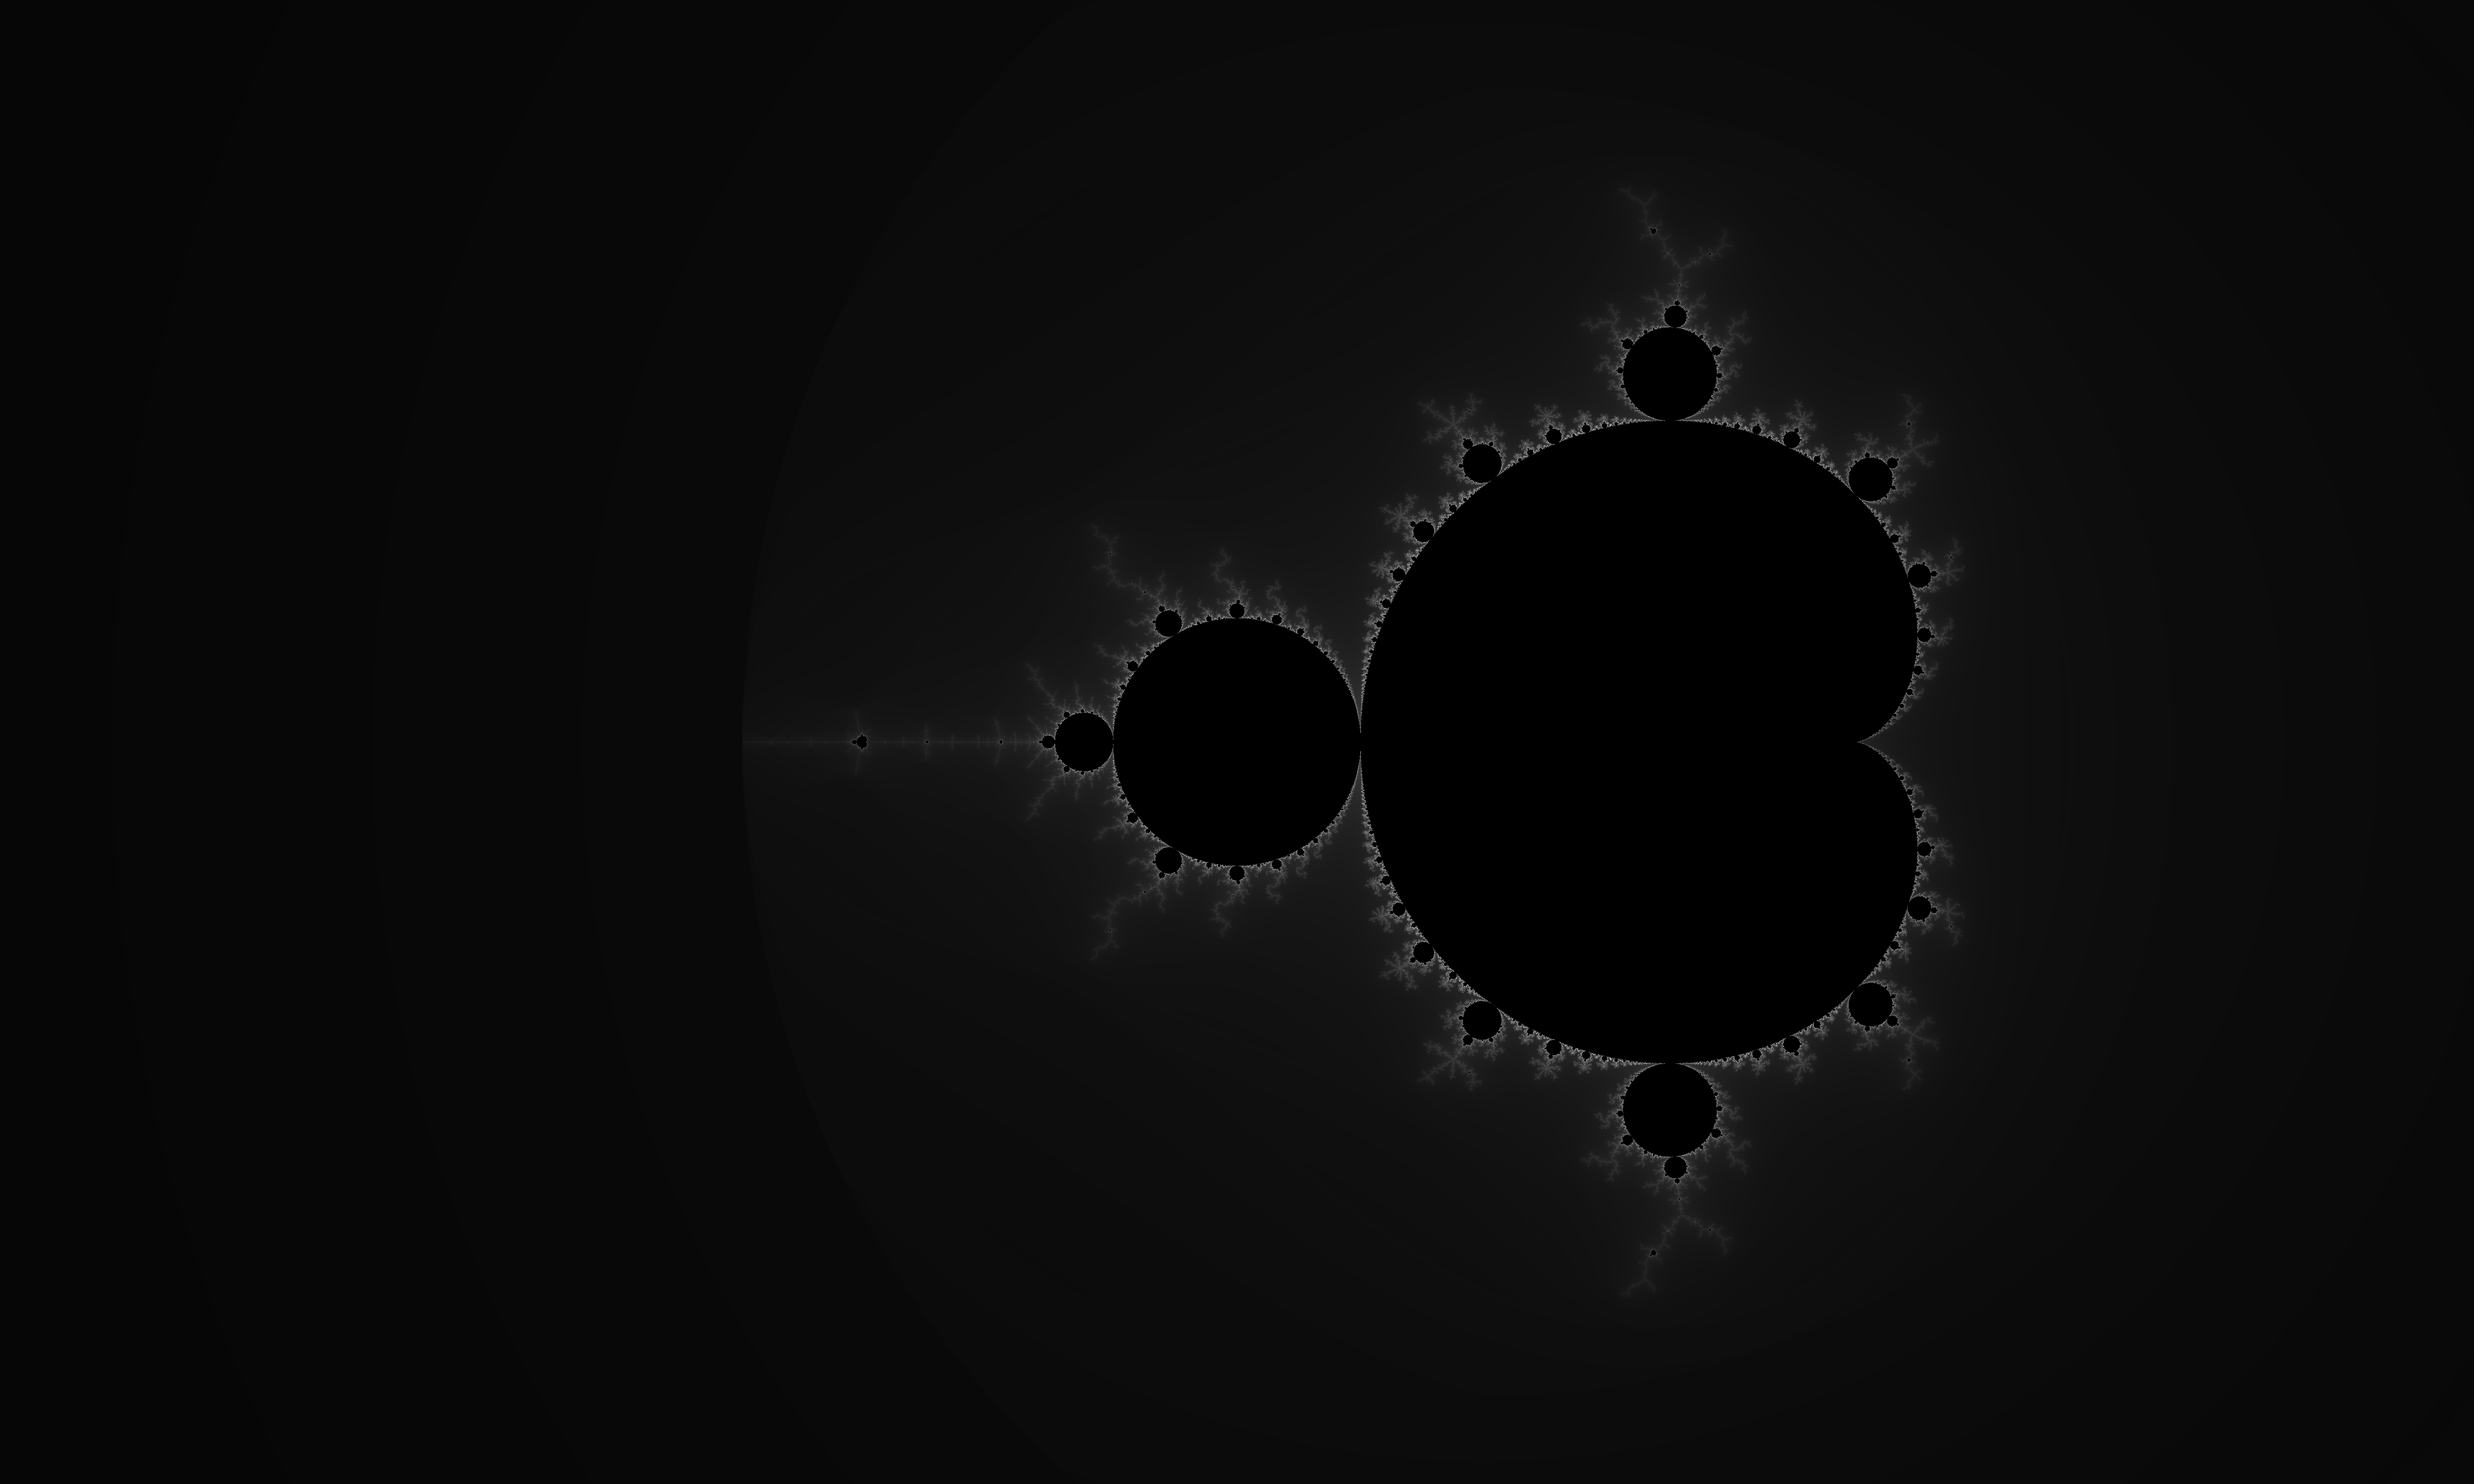
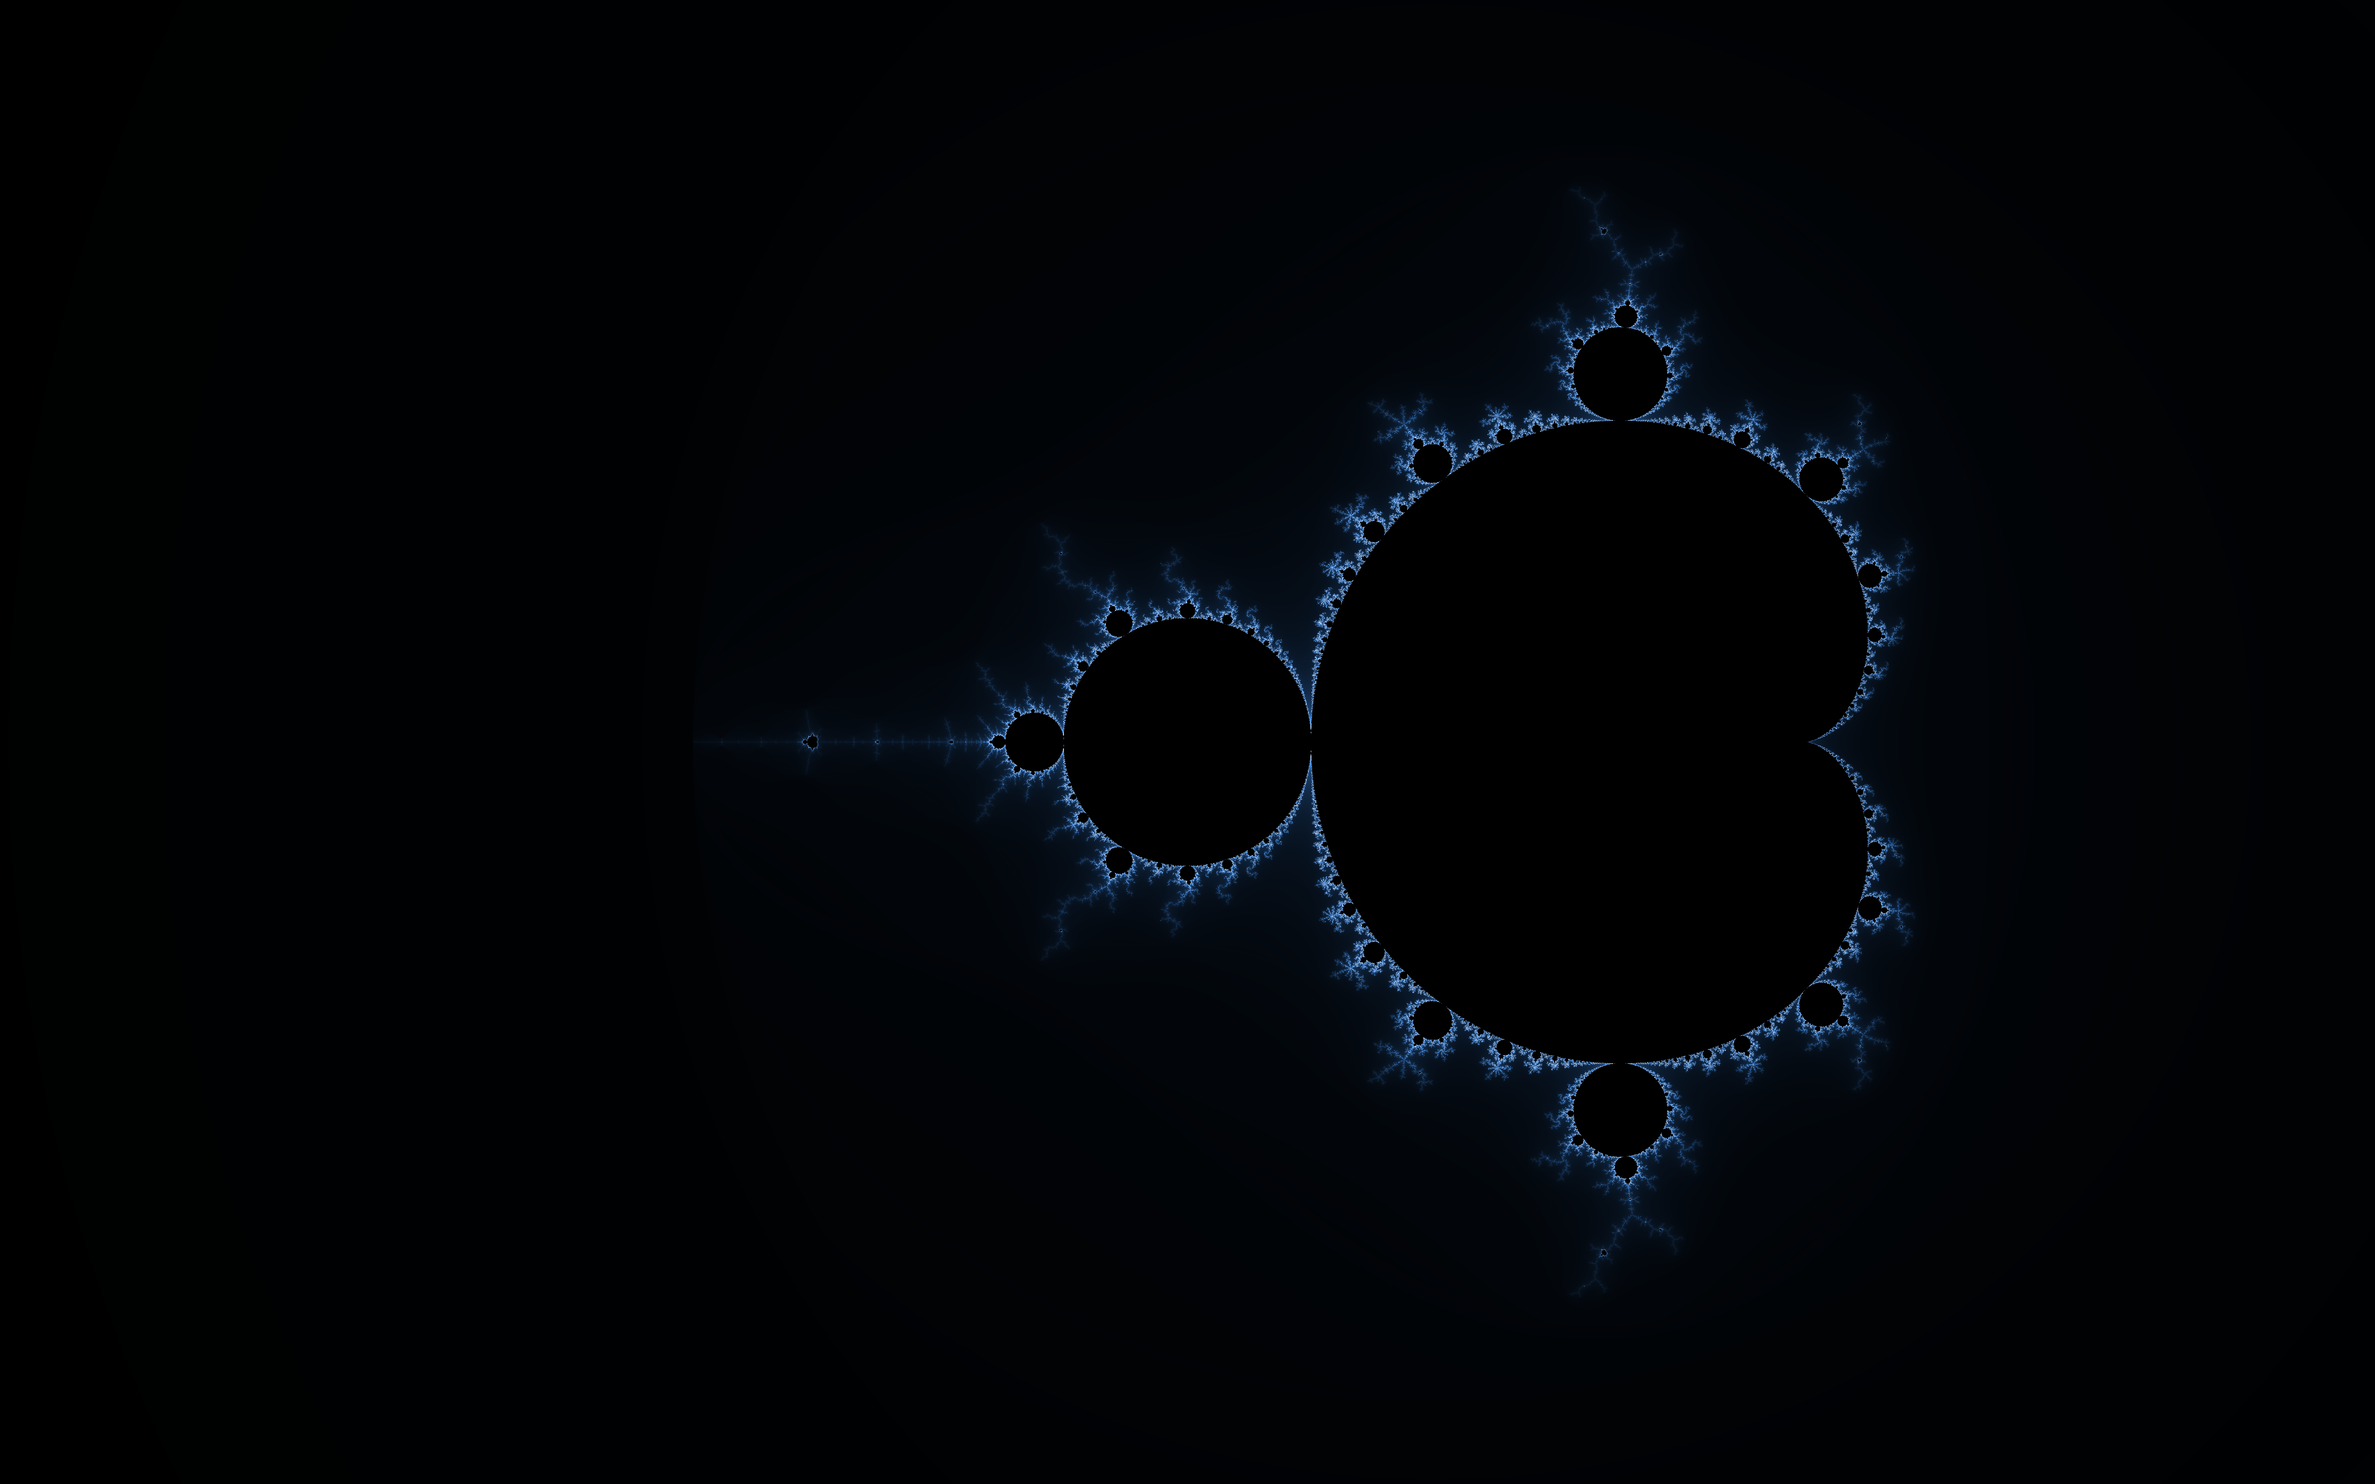
remove pow renderer

Changed region(s): [[0.4062, 0.1562, 0.8125, 0.8438]]

diff --git a/src/render.c b/src/render.c
@@ -109,6 +109,33 @@ static RGB blue_colormap(double t) {
 /**
  * color map 
  * v black 
+ * | #5a0000 (90 0 0) 
+ * v #fc6739 (252 103 57)
+ * | #c88800 (200 136 0)
+ * @param t 
+ *      run parameter
+ * @return `RGB` object of corresponding color 
+ */
+static RGB darksouls_colormap(double t) {
+    RGB color;
+    RGB c0 = RGB_BLACK;
+    RGB c1 = {90, 0, 0};     
+    RGB c2 = {252, 103, 57}; 
+    RGB c3 = {200, 136, 0};  
+
+    if(t < 0.3) {
+        color = linear_interpolation(t / 0.3, c0, c1);
+    } else if(t < 0.5) {
+        color = linear_interpolation((t - 0.3) / 0.2, c1, c2);
+    } else {
+        color = linear_interpolation((t - 0.5) / 0.5, c2, c3);
+    }
+    return color;
+}
+
+/**
+ * color map 
+ * v black 
  * | white
  * @param t 
  *      run parameter
@@ -143,6 +170,34 @@ static RGB green_colormap(double t) {
         color = linear_interpolation((t - 0.5) / 0.5, c2, c3);
     }
     return color;
+}
+
+/**
+ * color map 
+ * v black 
+ * | dark purple 
+ * v red/orange
+ * | yellow
+ * @param t 
+ *      run parameter
+ * @return `RGB` object of corresponding color 
+ */
+static RGB inferno_colormap(double t) {
+    RGB c0 = {0, 0, 4};
+    RGB c1 = {31, 12, 72};
+    RGB c2 = {85, 15, 109};
+    RGB c3 = {187, 55, 84};
+    RGB c4 = {252, 255, 164};
+
+    if(t < 0.25) {
+        return linear_interpolation(t / 0.25, c0, c1);
+    } else if(t < 0.5) {
+        return linear_interpolation((t - 0.25) / 0.25, c1, c2);
+    } else if(t < 0.75) {
+        return linear_interpolation((t - 0.5) / 0.25, c2, c3);
+    } else {
+        return linear_interpolation((t - 0.75) / 0.25, c3, c4);
+    }
 }
 
  /**
@@ -201,60 +256,6 @@ static RGB red_colormap(double t) {
 /**
  * color map 
  * v black 
- * | #765100 (118 81 0) 
- * v #c88800 (200 136 0)
- * | white
- * @param t 
- *      run parameter
- * @return `RGB` object of corresponding color 
- */
-static RGB yellow_colormap(double t) {
-    RGB color;
-    RGB c0 = RGB_BLACK;
-    RGB c1 = {118, 81, 0};   
-    RGB c2 = {200, 136, 0};  
-    RGB c3 = RGB_WHITE;
-
-    if(t < 0.4) {
-        color = linear_interpolation(t / 0.4, c0, c1);
-    } else if(t < 0.5) {
-        color = linear_interpolation((t - 0.4) / 0.1, c1, c2);
-    } else {
-        color = linear_interpolation((t - 0.5) / 0.5, c2, c3);
-    }
-    return color;
-}
-
-/**
- * color map 
- * v black 
- * | #5a0000 (90 0 0) 
- * v #fc6739 (252 103 57)
- * | #c88800 (200 136 0)
- * @param t 
- *      run parameter
- * @return `RGB` object of corresponding color 
- */
-static RGB darksouls_colormap(double t) {
-    RGB color;
-    RGB c0 = RGB_BLACK;
-    RGB c1 = {90, 0, 0};     
-    RGB c2 = {252, 103, 57}; 
-    RGB c3 = {200, 136, 0};  
-
-    if(t < 0.3) {
-        color = linear_interpolation(t / 0.3, c0, c1);
-    } else if(t < 0.5) {
-        color = linear_interpolation((t - 0.3) / 0.2, c1, c2);
-    } else {
-        color = linear_interpolation((t - 0.5) / 0.5, c2, c3);
-    }
-    return color;
-}
-
-/**
- * color map 
- * v black 
  * | midnightblue (25 25 112) 
  * v indigo (75 0 130)
  * | purple (128 0 128)
@@ -280,6 +281,33 @@ static RGB sasuke_colormap(double t) {
 }
 
 /**
+ * color map 
+ * v black 
+ * | #765100 (118 81 0) 
+ * v #c88800 (200 136 0)
+ * | white
+ * @param t 
+ *      run parameter
+ * @return `RGB` object of corresponding color 
+ */
+static RGB yellow_colormap(double t) {
+    RGB color;
+    RGB c0 = RGB_BLACK;
+    RGB c1 = {118, 81, 0};   
+    RGB c2 = {200, 136, 0};  
+    RGB c3 = RGB_WHITE;
+
+    if(t < 0.4) {
+        color = linear_interpolation(t / 0.4, c0, c1);
+    } else if(t < 0.5) {
+        color = linear_interpolation((t - 0.4) / 0.1, c1, c2);
+    } else {
+        color = linear_interpolation((t - 0.5) / 0.5, c2, c3);
+    }
+    return color;
+}
+
+/**
  * get rgb-color according passed `ColorMap` idendidfire 
  * @param cmap
  *      identifier for colormap (enums: `COLORMAP_RED`|...)
@@ -288,40 +316,44 @@ static RGB sasuke_colormap(double t) {
  * @param num_iterations
  *      maximal number of iteration per pixel (normalization constant)
  */
-static RGB colormap(ColorMap cmap, double pixel_value, unsigned int num_iterations) {
+static RGB colormap(ColorMap cmap, double pixel_value) {
     double t;
     switch(cmap) {
         case COLORMAP_BLUE:
-            t = fmod(pixel_value * 0.02, 1.0);
+            t = fmod(pixel_value * 0.008, 1.0);
             return blue_colormap(t);
 
+        case COLORMAP_DARKSOULS:
+            t = fmod(pixel_value * 0.005, 1.0);
+            return darksouls_colormap(t);
+
         case COLORMAP_GRAY:
-            t = pow(pixel_value / num_iterations, 0.5);
+            t = fmod(pixel_value * 0.006, 1.0);
             return gray_colormap(t);
         
         case COLORMAP_GREEN:
-            t = fmod(pixel_value * 0.02, 1.0);
+            t = fmod(pixel_value * 0.008, 1.0);
             return green_colormap(t);
 
+        case COLORMAP_INFERNO:
+            t = fmod(pixel_value * 0.008, 1.0);
+            return inferno_colormap(t);
+
         case COLORMAP_PURPLE:
-            t = fmod(pixel_value * 0.02, 1.0);
+            t = fmod(pixel_value * 0.008, 1.0);
             return purple_colormap(t);
 
         case COLORMAP_RED:
-            t = fmod(pixel_value * 0.02, 1.0);
+            t = fmod(pixel_value * 0.008, 1.0);
             return red_colormap(t);
 
-        case COLORMAP_YELLOW:
-            t = fmod(pixel_value * 0.02, 1.0);
-            return yellow_colormap(t);
-
-        case COLORMAP_DARKSOULS:
-            t = fmod(pixel_value * 0.02, 1.0);
-            return darksouls_colormap(t);
-
         case COLORMAP_SASUKE:
-            t = fmod(pixel_value * 0.02, 1.0);
+            t = fmod(pixel_value * 0.008, 1.0);
             return sasuke_colormap(t);
+
+        case COLORMAP_YELLOW:
+            t = fmod(pixel_value * 0.006, 1.0);
+            return yellow_colormap(t);
 
         default:
             return RGB_BLACK;   
@@ -348,7 +380,6 @@ int init_image(MandelbrotImage* image, unsigned int height, unsigned int width) 
 int render_mandelbrot(
     MandelbrotImage* image, 
     const MandelbrotGrid* grid, 
-    unsigned int num_iterations, 
     ColorMap cmap
 ) {
     if(image->height != grid->height || image->width != grid->width) {
@@ -365,7 +396,7 @@ int render_mandelbrot(
             } else {
                 if(
                     assign_image_pixel(
-                        image, i, j, colormap(cmap, pixel_value, num_iterations)
+                        image, i, j, colormap(cmap, pixel_value)
                     )
                 ) {return 1;}
             }

diff --git a/src/cli.c b/src/cli.c
@@ -37,7 +37,7 @@ static void print_help(const char* program_name, const Configs* cfg) {
     printf("  %-35s default: %u\n\n", "", cfg->num_iter);
     printf("  %-35s %s\n", "-f, --format {png|ppm}", "Output image format");
     printf("  %-35s default: %s\n\n", "", cfg->format);
-    printf("  %-35s %s\n", "-c, --cmap {blue|gray|green|purple|red|yellow|darksouls|sasuke}", "Color theme");
+    printf("  %-35s %s\n", "-c, --cmap {blue|darksouls|gray|green|inferno|purple|red|sasuke|yellow}", "Color theme");
     printf("  %-35s default: %s\n\n", "", cfg->cmap);
     printf("  %-35s %s\n", "-o, --output_path <string>","Output path (./mandelbrot_[resolution].[ppm|png|txt])");
     printf("  %-35s %s\n", "-y, --yes", "Skip confirmation prompt");
@@ -253,13 +253,15 @@ int validate_configs(const Configs* cfg) {
     }
     if(
         strcmp(cfg->cmap, "blue") != 0 &&
+        strcmp(cfg->cmap, "darksouls") != 0 &&
         strcmp(cfg->cmap, "gray") != 0 &&
         strcmp(cfg->cmap, "green") != 0 &&
+        strcmp(cfg->cmap, "inferno") != 0 &&
         strcmp(cfg->cmap, "purple") != 0 &&
         strcmp(cfg->cmap, "red") != 0 &&
-        strcmp(cfg->cmap, "yellow") != 0 &&
-        strcmp(cfg->cmap, "darksouls") != 0 &&
-        strcmp(cfg->cmap, "sasuke") != 0
+        strcmp(cfg->cmap, "sasuke") != 0 &&
+        strcmp(cfg->cmap, "yellow") != 0 
+
     ) {
         fprintf(stderr, "ERROR: invalid '--cmap': '%s'.\n", cfg->cmap);
         return 0;
@@ -295,12 +297,13 @@ int finalize_configs(Configs* cfg) {
 
     // cmap
     if(strcmp(cfg->cmap, "blue") == 0) {cfg->colormap = COLORMAP_BLUE;}
+    else if(strcmp(cfg->cmap, "darksouls") == 0) {cfg->colormap = COLORMAP_DARKSOULS;}
     else if(strcmp(cfg->cmap, "gray") == 0) {cfg->colormap = COLORMAP_GRAY;}
     else if(strcmp(cfg->cmap, "green") == 0) {cfg->colormap = COLORMAP_GREEN;}
+    else if(strcmp(cfg->cmap, "inferno") == 0) {cfg->colormap = COLORMAP_INFERNO;}
     else if(strcmp(cfg->cmap, "purple") == 0) {cfg->colormap = COLORMAP_PURPLE;}
-    else if(strcmp(cfg->cmap, "yellow") == 0) {cfg->colormap = COLORMAP_YELLOW;}
-    else if(strcmp(cfg->cmap, "darksouls") == 0) {cfg->colormap = COLORMAP_DARKSOULS;}
     else if(strcmp(cfg->cmap, "sasuke") == 0) {cfg->colormap = COLORMAP_SASUKE;}
+    else if(strcmp(cfg->cmap, "yellow") == 0) {cfg->colormap = COLORMAP_YELLOW;}
     else {cfg->colormap = COLORMAP_RED;}
 
     return 1;
@@ -371,7 +374,7 @@ int run_program(const Configs* cfg) {
             goto cleanup;
         }
 
-        if(render_mandelbrot(&image, &grid, cfg->num_iter, cfg->colormap)) {
+        if(render_mandelbrot(&image, &grid, cfg->colormap)) {
             fprintf(stderr, "ERROR: Rendering MandelbrotImage failed.\n");
             goto cleanup;
         }

diff --git a/include/render.h b/include/render.h
@@ -9,13 +9,15 @@
  */
 typedef enum {
     COLORMAP_BLUE,
+    COLORMAP_DARKSOULS,
     COLORMAP_GRAY,
     COLORMAP_GREEN,
+    COLORMAP_INFERNO,
     COLORMAP_PURPLE,
     COLORMAP_RED,
-    COLORMAP_YELLOW,
-    COLORMAP_DARKSOULS,
-    COLORMAP_SASUKE
+    COLORMAP_SASUKE,
+    COLORMAP_YELLOW
+
 } ColorMap;
 
 /**
@@ -57,7 +59,6 @@ int init_image(MandelbrotImage*, unsigned int height, unsigned int width);
 int render_mandelbrot(
     MandelbrotImage* image, 
     const MandelbrotGrid* grid, 
-    unsigned int num_iterations, 
     ColorMap cmap
 );
 
